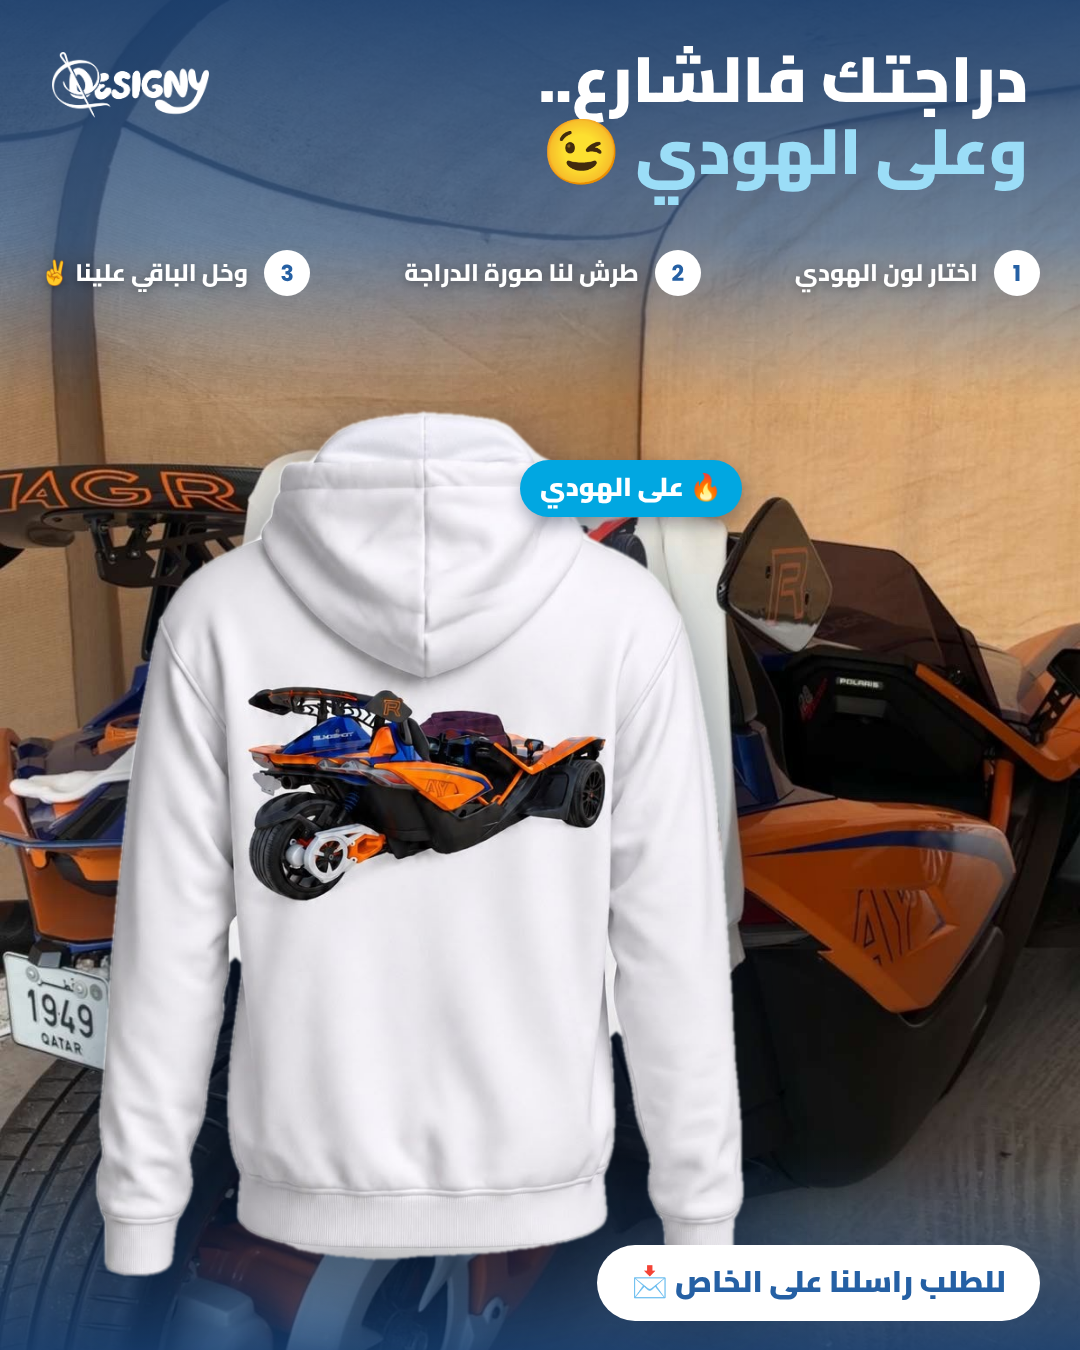
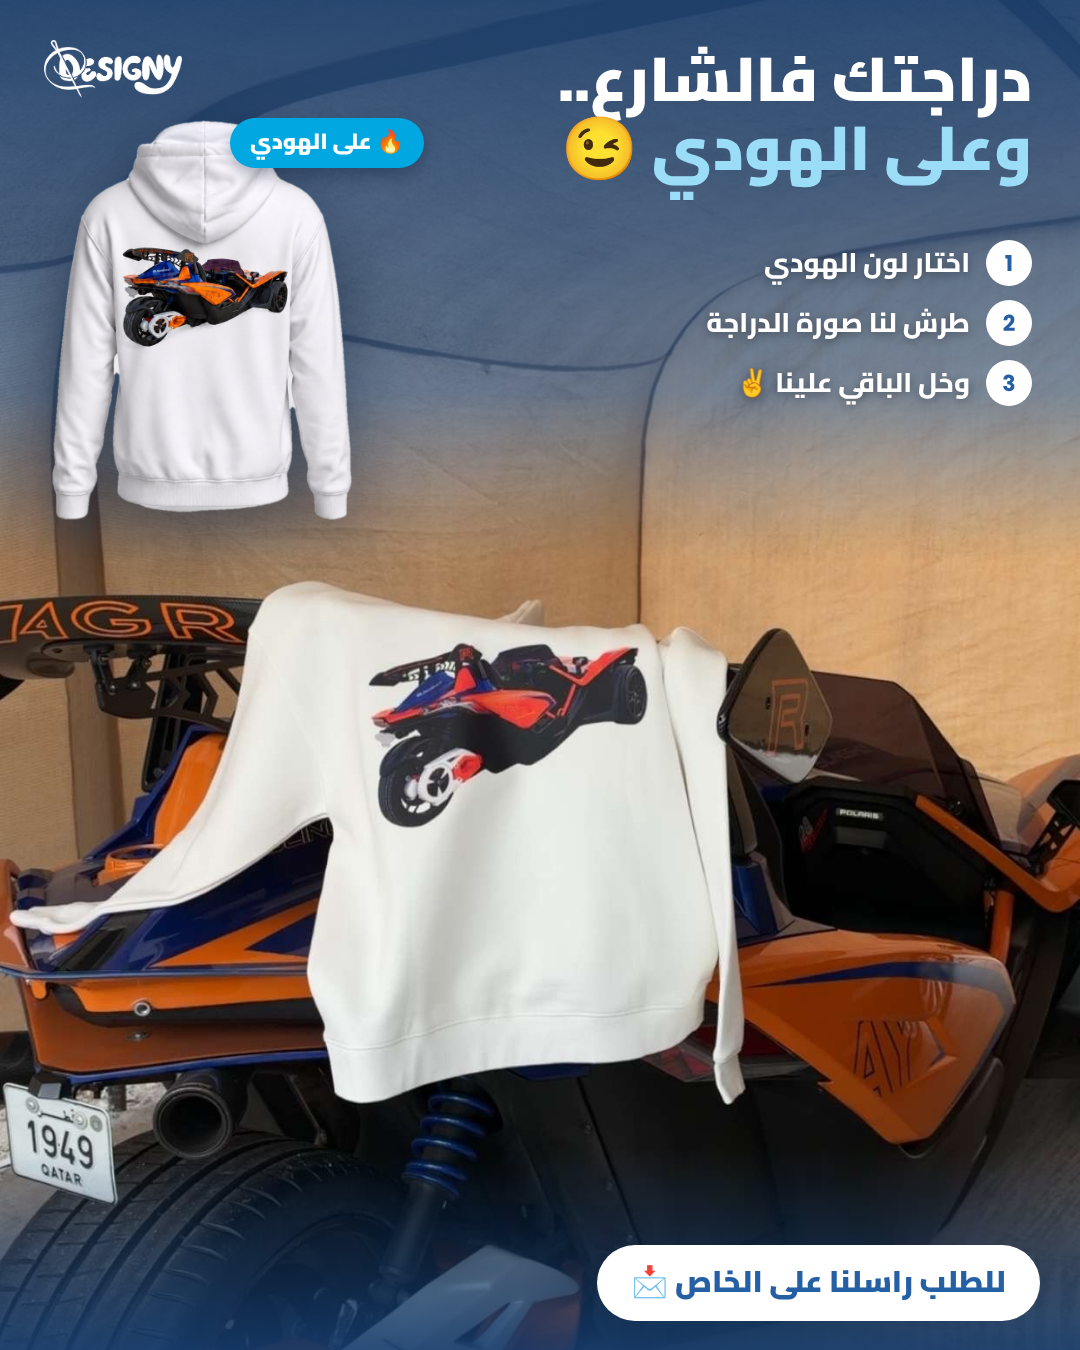
Designy bike hoodie v3: hoodie in free area, photo uncovered
Claude-Session: https://claude.ai/code/session_01K6HDWNrArsGSJekW1VcEzV

diff --git a/tshirts/bike-hoodie/out/designy-bike-hoodie-post.html b/tshirts/bike-hoodie/out/designy-bike-hoodie-post.html
@@ -13,14 +13,14 @@ body{width:1080px;background:radial-gradient(120% 80% at 50% 40%,#2d6cb4 0%,#256
  body{height:1350px}.hd{filter:drop-shadow(0 30px 40px rgba(5,20,45,.55))}
 .ov{position:absolute;left:0;right:0}
 .stw .st span{text-shadow:0 2px 10px rgba(0,0,0,.35)}</style></head><body>
-<div class="abs" style="inset:0;background:url(file:///home/claude/974-social/tshirts/bike-hoodie/src/photo.jpg) 50% 58%/cover no-repeat"></div>
-<div class="ov" style="top:0;height:400px;background:linear-gradient(180deg,rgba(23,63,114,.9) 0%,rgba(37,96,164,.6) 60%,rgba(37,96,164,0) 100%)"></div>
+<div class="abs" style="inset:0;background:url(file:///home/claude/974-social/tshirts/bike-hoodie/src/photo.jpg) 50% 35%/cover no-repeat"></div>
+<div class="ov" style="top:0;height:560px;background:linear-gradient(180deg,rgba(23,63,114,.88) 0%,rgba(37,96,164,.55) 70%,rgba(37,96,164,0) 100%)"></div>
 <div class="ov" style="bottom:0;height:200px;background:linear-gradient(0deg,rgba(23,63,114,.85) 0%,rgba(23,63,114,0) 100%)"></div>
-<img class="abs" src="file:///home/claude/974-social/tshirts/designy/designy-logo-white-hd.png" style="left:52px;top:52px;height:66px">
-<div class="abs" style="right:52px;top:44px"><div style="font-weight:900;font-size:64px;line-height:1.12;direction:rtl;text-align:right">دراجتك فالشارع..<br><span style="color:#9BDDF7">وعلى الهودي 😉</span></div></div>
-<div class="abs stw" style="left:40px;right:40px;top:250px;display:flex;justify-content:space-between;direction:rtl"><div class="st"><b style="width:46px;height:46px;font-size:22px">1</b><span style="font-size:24px">اختار لون الهودي</span></div>
-<div class="st"><b style="width:46px;height:46px;font-size:22px">2</b><span style="font-size:24px">طرش لنا صورة الدراجة</span></div>
-<div class="st"><b style="width:46px;height:46px;font-size:22px">3</b><span style="font-size:24px">وخل الباقي علينا ✌</span></div></div>
-<img class="abs hd" src="file:///home/claude/974-social/tshirts/bike-hoodie/src/back-cut.png" style="left:95px;top:410px;width:650px">
-<div class="tag" style="left:520px;top:460px">على الهودي 🔥</div>
+<img class="abs" src="file:///home/claude/974-social/tshirts/designy/designy-logo-white-hd.png" style="left:44px;top:40px;height:58px">
+<img class="abs hd" src="file:///home/claude/974-social/tshirts/bike-hoodie/src/back-cut.png" style="left:52px;top:120px;width:300px">
+<div class="tag" style="left:230px;top:118px;font-size:22px">على الهودي 🔥</div>
+<div class="abs" style="right:48px;top:44px"><div style="font-weight:900;font-size:62px;line-height:1.12;direction:rtl;text-align:right">دراجتك فالشارع..<br><span style="color:#9BDDF7">وعلى الهودي 😉</span></div></div>
+<div class="abs stw" style="right:48px;top:240px;display:flex;flex-direction:column;gap:14px"><div class="st"><b style="width:46px;height:46px;font-size:22px">1</b><span style="font-size:27px">اختار لون الهودي</span></div>
+<div class="st"><b style="width:46px;height:46px;font-size:22px">2</b><span style="font-size:27px">طرش لنا صورة الدراجة</span></div>
+<div class="st"><b style="width:46px;height:46px;font-size:22px">3</b><span style="font-size:27px">وخل الباقي علينا ✌</span></div></div>
 <div class="abs" style="right:40px;top:1245px"><div style="display:inline-flex;align-items:center;gap:12px;background:#fff;color:#2560a4;border-radius:44px;padding:8px 34px 12px;font-weight:900;font-size:30px;direction:rtl">للطلب راسلنا على الخاص 📩</div></div></body></html>

diff --git a/tshirts/bike-hoodie/out/designy-bike-hoodie-story.html b/tshirts/bike-hoodie/out/designy-bike-hoodie-story.html
@@ -14,13 +14,13 @@ body{width:1080px;background:radial-gradient(120% 80% at 50% 40%,#2d6cb4 0%,#256
 .ov{position:absolute;left:0;right:0}
 .stw .st span{text-shadow:0 2px 10px rgba(0,0,0,.35)}</style></head><body>
 <div class="abs" style="inset:0;background:url(file:///home/claude/974-social/tshirts/bike-hoodie/src/photo.jpg) center/cover no-repeat"></div>
-<div class="ov" style="top:0;height:720px;background:linear-gradient(180deg,rgba(23,63,114,.92) 0%,rgba(37,96,164,.6) 65%,rgba(37,96,164,0) 100%)"></div>
+<div class="ov" style="top:0;height:800px;background:linear-gradient(180deg,rgba(23,63,114,.9) 0%,rgba(37,96,164,.55) 70%,rgba(37,96,164,0) 100%)"></div>
 <div class="ov" style="bottom:0;height:380px;background:linear-gradient(0deg,rgba(23,63,114,.9) 0%,rgba(23,63,114,0) 100%)"></div>
 <img class="abs" src="file:///home/claude/974-social/tshirts/designy/designy-logo-white-hd.png" style="left:52px;top:200px;height:66px">
 <div class="abs" style="right:52px;top:190px"><div style="font-weight:900;font-size:72px;line-height:1.12;direction:rtl;text-align:right">دراجتك فالشارع..<br><span style="color:#9BDDF7">وعلى الهودي 😉</span></div></div>
-<div class="abs stw" style="right:52px;top:420px;display:flex;flex-direction:column;gap:16px"><div class="st"><b style="width:50px;height:50px;font-size:24px">1</b><span style="font-size:28px">اختار لون الهودي</span></div>
-<div class="st"><b style="width:50px;height:50px;font-size:24px">2</b><span style="font-size:28px">طرش لنا صورة الدراجة</span></div>
-<div class="st"><b style="width:50px;height:50px;font-size:24px">3</b><span style="font-size:28px">وخل الباقي علينا ✌</span></div></div>
-<img class="abs hd" src="file:///home/claude/974-social/tshirts/bike-hoodie/src/back-cut.png" style="left:75px;top:680px;width:715px">
-<div class="tag" style="left:600px;top:730px">على الهودي 🔥</div>
+<div class="abs stw" style="right:52px;top:440px;display:flex;flex-direction:column;gap:18px"><div class="st"><b style="width:50px;height:50px;font-size:24px">1</b><span style="font-size:29px">اختار لون الهودي</span></div>
+<div class="st"><b style="width:50px;height:50px;font-size:24px">2</b><span style="font-size:29px">طرش لنا صورة الدراجة</span></div>
+<div class="st"><b style="width:50px;height:50px;font-size:24px">3</b><span style="font-size:29px">وخل الباقي علينا ✌</span></div></div>
+<img class="abs hd" src="file:///home/claude/974-social/tshirts/bike-hoodie/src/back-cut.png" style="left:60px;top:330px;width:315px">
+<div class="tag" style="left:250px;top:325px;font-size:22px">على الهودي 🔥</div>
 <div class="abs" style="left:0;right:0;top:1660px;text-align:center"><div style="display:inline-flex;align-items:center;gap:12px;background:#fff;color:#2560a4;border-radius:44px;padding:8px 34px 12px;font-weight:900;font-size:30px;direction:rtl">للطلب راسلنا على الخاص 📩</div></div></body></html>

diff --git a/tshirts/bike-hoodie/gen.py b/tshirts/bike-hoodie/gen.py
@@ -36,27 +36,27 @@ def html2(b,h): return html(b,h).replace('</style>',EXTRA+'</style>')
 
 def post():
     b=f'''
-<div class="abs" style="inset:0;background:url(file://{PH}) 50% 58%/cover no-repeat"></div>
-<div class="ov" style="top:0;height:400px;background:linear-gradient(180deg,rgba(23,63,114,.9) 0%,rgba(37,96,164,.6) 60%,rgba(37,96,164,0) 100%)"></div>
+<div class="abs" style="inset:0;background:url(file://{PH}) 50% 35%/cover no-repeat"></div>
+<div class="ov" style="top:0;height:560px;background:linear-gradient(180deg,rgba(23,63,114,.88) 0%,rgba(37,96,164,.55) 70%,rgba(37,96,164,0) 100%)"></div>
 <div class="ov" style="bottom:0;height:200px;background:linear-gradient(0deg,rgba(23,63,114,.85) 0%,rgba(23,63,114,0) 100%)"></div>
-<img class="abs" src="file://{LOGO}" style="left:52px;top:52px;height:66px">
-<div class="abs" style="right:52px;top:44px">{HEAD.format(fs=64,sky='#9BDDF7')}</div>
-<div class="abs stw" style="left:40px;right:40px;top:250px;display:flex;justify-content:space-between;direction:rtl">{STEPS.replace('<b>','<b style="width:46px;height:46px;font-size:22px">').replace('<span>','<span style="font-size:24px">')}</div>
-<img class="abs hd" src="file://{HC}" style="left:95px;top:410px;width:650px">
-<div class="tag" style="left:520px;top:460px">على الهودي 🔥</div>
+<img class="abs" src="file://{LOGO}" style="left:44px;top:40px;height:58px">
+<img class="abs hd" src="file://{HC}" style="left:52px;top:120px;width:300px">
+<div class="tag" style="left:230px;top:118px;font-size:22px">على الهودي 🔥</div>
+<div class="abs" style="right:48px;top:44px">{HEAD.format(fs=62,sky='#9BDDF7')}</div>
+<div class="abs stw" style="right:48px;top:240px;display:flex;flex-direction:column;gap:14px">{STEPS.replace('<b>','<b style="width:46px;height:46px;font-size:22px">').replace('<span>','<span style="font-size:27px">')}</div>
 <div class="abs" style="right:40px;top:1245px">{CTA}</div>'''
     return html2(b,1350)
 
 def story():
     b=f'''
 <div class="abs" style="inset:0;background:url(file://{PH}) center/cover no-repeat"></div>
-<div class="ov" style="top:0;height:720px;background:linear-gradient(180deg,rgba(23,63,114,.92) 0%,rgba(37,96,164,.6) 65%,rgba(37,96,164,0) 100%)"></div>
+<div class="ov" style="top:0;height:800px;background:linear-gradient(180deg,rgba(23,63,114,.9) 0%,rgba(37,96,164,.55) 70%,rgba(37,96,164,0) 100%)"></div>
 <div class="ov" style="bottom:0;height:380px;background:linear-gradient(0deg,rgba(23,63,114,.9) 0%,rgba(23,63,114,0) 100%)"></div>
 <img class="abs" src="file://{LOGO}" style="left:52px;top:200px;height:66px">
 <div class="abs" style="right:52px;top:190px">{HEAD.format(fs=72,sky='#9BDDF7')}</div>
-<div class="abs stw" style="right:52px;top:420px;display:flex;flex-direction:column;gap:16px">{STEPS.replace('<b>','<b style="width:50px;height:50px;font-size:24px">').replace('<span>','<span style="font-size:28px">')}</div>
-<img class="abs hd" src="file://{HC}" style="left:75px;top:680px;width:715px">
-<div class="tag" style="left:600px;top:730px">على الهودي 🔥</div>
+<div class="abs stw" style="right:52px;top:440px;display:flex;flex-direction:column;gap:18px">{STEPS.replace('<b>','<b style="width:50px;height:50px;font-size:24px">').replace('<span>','<span style="font-size:29px">')}</div>
+<img class="abs hd" src="file://{HC}" style="left:60px;top:330px;width:315px">
+<div class="tag" style="left:250px;top:325px;font-size:22px">على الهودي 🔥</div>
 <div class="abs" style="left:0;right:0;top:1660px;text-align:center">{CTA}</div>'''
     return html2(b,1920)
 
